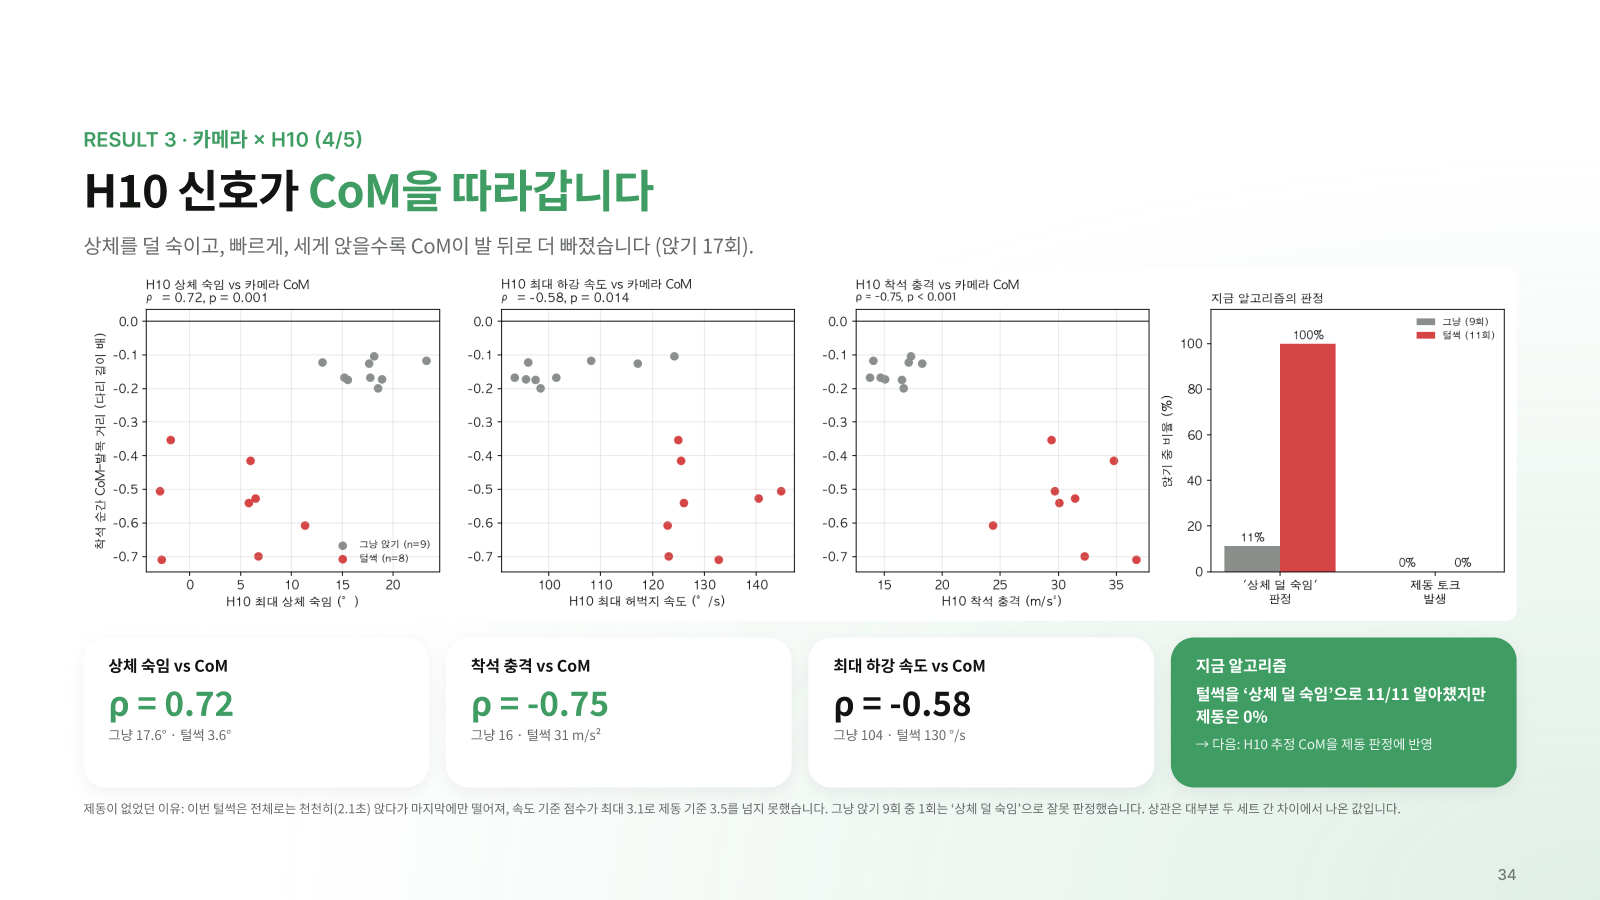
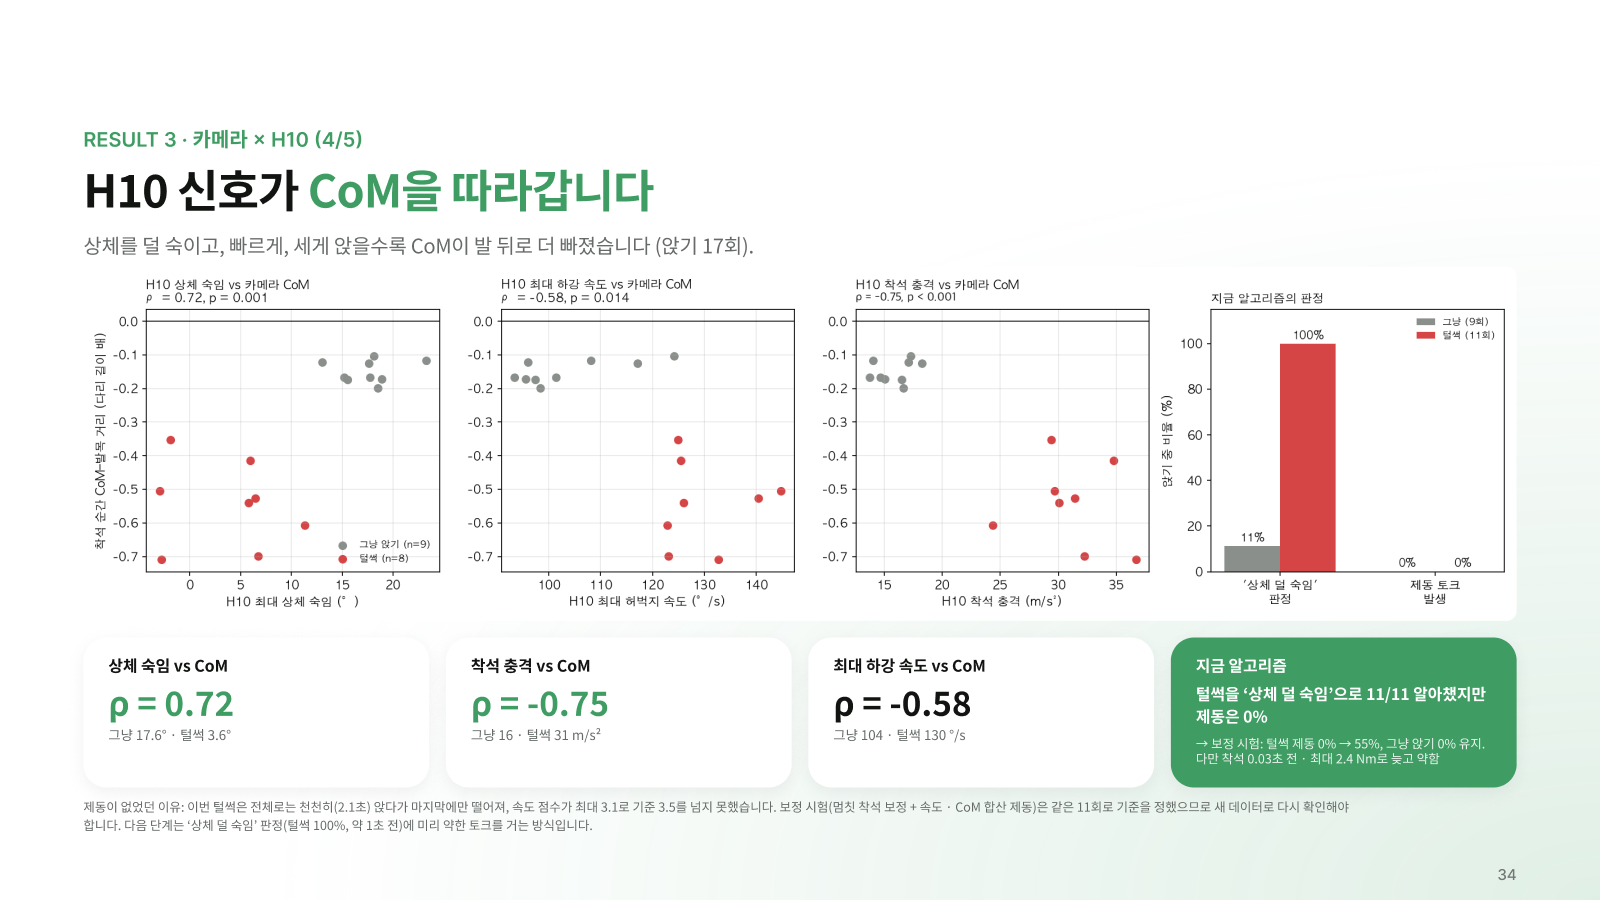
Slides: algorithm trial result on slide 34, paired-sit footnote on slide 31

Changed region(s): [[0.0625, 0.8089, 0.9062, 0.9333]]

diff --git a/presentation/발표_흐름.md b/presentation/발표_흐름.md
@@ -42,7 +42,7 @@ Figma Slides: https://www.figma.com/slides/4tZDoTD6FXxpx83Z0kraKR
 | 31 | RESULT 3 (1/5) | 카메라로 본 CoM: 착석 직전 무게중심이 발 뒤로 빠집니다 | 데이터: 옆 카메라 + H10 동시 기록, 그냥 10번 · 털썩 11번(보조 끔). CoM–발목 -0.15 vs -0.54. 사진은 공개 저장소에서 생략 |
 | 32 | RESULT 3 (2/5) | 털썩 앉기 11번: 닿는 순간 상체가 젖혀지며 CoM이 뒤로 빠집니다 | 시계열. 마지막 40° 약 1.0초, 상체 48° → 0° → -15°, CoM 닿는 순간 -0.58 · 직후 최대 -0.68 |
 | 33 | RESULT 3 (3/5) | 카메라와 H10이 같은 움직임을 잽니다 | 허벅지 r = 0.99, 상체 r = 0.6~0.8, CoM -0.15 → -0.54 (p = 0.0001) |
-| 34 | RESULT 3 (4/5) | H10 신호가 CoM을 따라갑니다 | ρ 0.72 / -0.75 / -0.58. 알고리즘: 털썩 11/11 자세 판정, 제동 0% → H10 추정 CoM을 제동 판정에 반영 예정 |
+| 34 | RESULT 3 (4/5) | H10 신호가 CoM을 따라갑니다 | ρ 0.72 / -0.75 / -0.58. 알고리즘: 털썩 11/11 자세 판정, 제동 0%. 보정 시험(멈칫 보정 + 속도·CoM 합산): 털썩 제동 55%, 그냥 0% 유지, 단 착석 0.03초 전·최대 2.4 Nm로 늦고 약함. 같은 11회로 기준을 정해 새 데이터 검증 필요 |
 | 35 | RESULT 3 (5/5) | H10만으로 CoM을 추정할 수 있을까요? | r = 0.94, 털썩 깊이 덜 잡음(-0.37 vs -0.54), 정강이 각도 알면 r = 0.99. 한계: 1명 · 17회 · 2D |
 | 36 | RESULT 4 (1/3) | H10을 입고 낮은 자리에 앉기 | 보조 켜고 낮은 벤치 · 계단 1차 시험 영상 스틸 (공개 저장소 생략) |
 | 37 | RESULT 4 (2/3) | 옆에서 본 낮은 벤치 착석 | 옆 촬영 스틸 4장 (공개 저장소 생략) |
